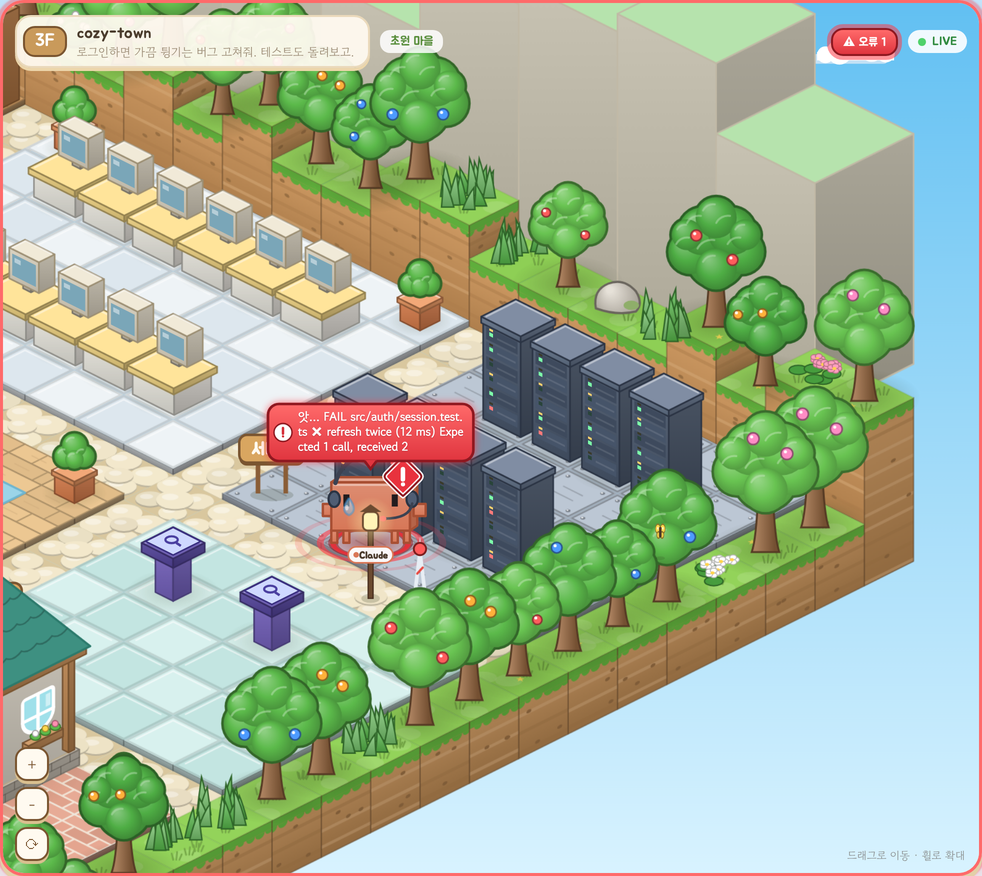
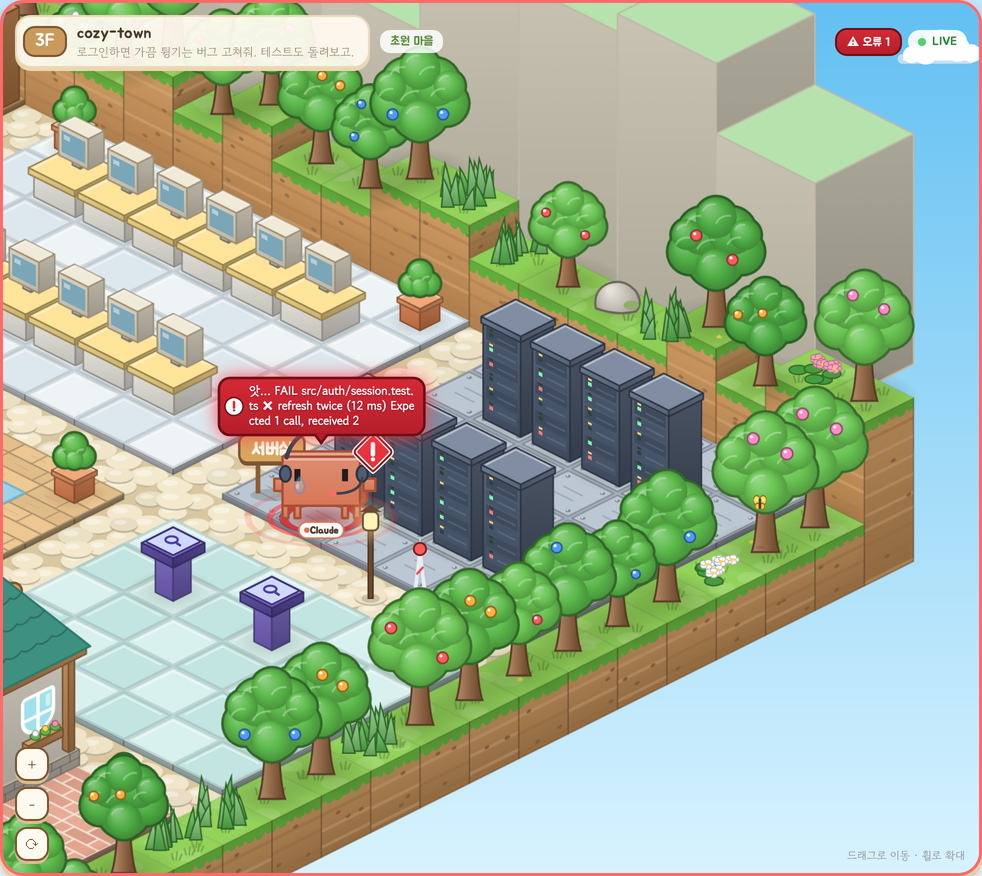
리뷰에서 확인된 오류·확인 필요 표시 문제 수정
- 결과 줄이 빠진 도구(4MB 넘는 줄 등)가 답변이 끝날 때까지 ⏳와 확인 필요
  표시를 계속 다시 띄우던 문제: Claude가 새 API 응답을 시작하면 이전 응답의
  도구는 끝난 것으로 정리한다. 서버가 assistant 이벤트에 응답 ID(mid)를 실어
  보내고, 같은 응답 안에서 결과가 먼저 기록돼도 실행 중인 도구는 지우지 않는다.
  응답 ID가 없는 기록은 '도구 결과 뒤 첫 기록'으로 경계를 정한다.
- 서브에이전트가 실패 직후 끝나도 막 뜬 오류 말풍선은 2.5초 동안 남긴다.
- 화면 가장자리의 말풍선을 캔버스 안으로 당긴다(서버실 오류 말풍선 잘림).
- 빨간 말풍선·표지·상태 칸의 흰 글씨 대비를 4.5:1 이상으로 진하게.
- 말풍선 빛 번짐을 기기 픽셀 배율에 맞춘다(고배율 화면에서 절반으로 줄던 문제).
- 클로드봇의 경고 표지가 걸을 때 눈을 가리지 않도록 위치를 옮긴다.
- README: ⏳와 빨간 말풍선의 순서, 재생 시 남는 로그 색, 4MB 건너뛰기 한계를
  실제 동작대로 고치고 스크린샷을 새 색으로 다시 찍음.

Claude-Session: https://claude.ai/code/session_01VkJvAcnZP5o4Ey8mpCUtMx

diff --git a/public/world.js b/public/world.js
@@ -1106,7 +1106,7 @@ const BUBBLE = {
   report: { bg: '#eafbe5', line: '#6ab865', text: '#2f6b2b' },
   call: { bg: '#ffece4', line: '#e58a6a', text: '#8a3a20' },
   // 눈에 띄어야 하는 말풍선: 진한 바탕, 굵은 글씨, 왼쪽 표지, 빛나는 테두리
-  err: { bg: ['#ff6a6a', '#e0353f'], line: '#8f1820', text: '#ffffff', bold: true, badge: '!', badgeBg: '#ffffff', badgeFg: '#d42a35', glow: '#ff3b47', shake: true },
+  err: { bg: ['#d42a35', '#b51f2a'], line: '#6e0f16', text: '#ffffff', bold: true, badge: '!', badgeBg: '#ffffff', badgeFg: '#d42a35', glow: '#ff3b47', shake: true },
   ask: { bg: ['#ffd84d', '#ffb21a'], line: '#9a5a00', text: '#3d2600', bold: true, badge: '?', badgeBg: '#3d2600', badgeFg: '#ffd84d', glow: '#ffb21a', pulse: true },
   wait: { bg: ['#fff1b8', '#ffd96a'], line: '#b07400', text: '#4a3200', bold: true, badge: '⏳', badgeBg: '#ffffff', badgeFg: '#b07400', glow: '#ffc53d', pulse: true, dash: [5, 3] },
 };
@@ -1124,7 +1124,10 @@ function drawBubble(ctx, x, y, b, placed) {
   const h = Math.max(lines.length * lh + 12, st.badge ? 28 : 0);
   // 오류 말풍선은 처음 0.6초 동안 좌우로 흔들린다
   const shake = st.shake && age < 600 ? Math.sin(age / 22) * 3 * (1 - age / 600) : 0;
-  const bx = Math.round(x - w / 2 + shake);
+  // 화면 가장자리의 캐릭터도 말풍선이 잘리지 않게 안쪽으로 당긴다 (꼬리 끝은 캐릭터를 가리킨다)
+  const ds = ctx.getTransform().a;
+  const vw = ctx.canvas.width / ds;
+  const bx = Math.round(Math.max(4, Math.min(vw - w - 4, x - w / 2)) + shake);
   let by = Math.round(y - h - 12);
   // 다른 말풍선과 겹치면 위로 올린다
   for (let moved = true, n = 0; moved && n < 8; n++) {
@@ -1140,7 +1143,7 @@ function drawBubble(ctx, x, y, b, placed) {
   if (Array.isArray(st.bg)) { fill = ctx.createLinearGradient(0, by, 0, by + h); fill.addColorStop(0, st.bg[0]); fill.addColorStop(1, st.bg[1]); }
   if (st.glow) {
     const k = st.pulse ? 0.5 + 0.5 * Math.sin(now / 260) : 1;
-    ctx.shadowColor = st.glow; ctx.shadowBlur = 8 + 10 * k; ctx.shadowOffsetY = 0;
+    ctx.shadowColor = st.glow; ctx.shadowBlur = (8 + 10 * k) * ds; ctx.shadowOffsetY = 0;   // 그림자 크기는 기기 픽셀 단위
   } else { ctx.shadowColor = 'rgba(80,60,30,.18)'; ctx.shadowBlur = 6; ctx.shadowOffsetY = 2; }
   ctx.fillStyle = fill; ctx.strokeStyle = st.line; ctx.lineWidth = st.glow ? 2.6 : 2;
   if (st.dash) ctx.setLineDash(st.dash);
@@ -1149,13 +1152,13 @@ function drawBubble(ctx, x, y, b, placed) {
     ctx.shadowColor = 'transparent'; ctx.stroke();
     for (const [dx, dy, r] of [[-4, 6, 4], [-9, 13, 2.5]]) { ctx.beginPath(); ctx.arc(x + dx, by + h + dy - 2, r, 0, Math.PI * 2); ctx.fill(); ctx.stroke(); }
   } else {
-    const tx = x + shake;
+    const tx = x + shake, bt = Math.max(bx + 12, Math.min(bx + w - 12, tx));
     ctx.beginPath(); ctx.roundRect(bx, by, w, h, 11); ctx.fill();
     ctx.shadowColor = 'transparent'; ctx.stroke();
     ctx.setLineDash([]);
     ctx.fillStyle = Array.isArray(st.bg) ? st.bg[1] : fill;
-    ctx.beginPath(); ctx.moveTo(tx - 6, by + h - 1); ctx.lineTo(tx, tailY); ctx.lineTo(tx + 6, by + h - 1); ctx.closePath(); ctx.fill();
-    ctx.beginPath(); ctx.moveTo(tx - 6, by + h); ctx.lineTo(tx, tailY); ctx.lineTo(tx + 6, by + h); ctx.stroke();
+    ctx.beginPath(); ctx.moveTo(bt - 6, by + h - 1); ctx.lineTo(tx, tailY); ctx.lineTo(bt + 6, by + h - 1); ctx.closePath(); ctx.fill();
+    ctx.beginPath(); ctx.moveTo(bt - 6, by + h); ctx.lineTo(tx, tailY); ctx.lineTo(bt + 6, by + h); ctx.stroke();
   }
   ctx.setLineDash([]);
   if (st.badge) {
@@ -1169,7 +1172,7 @@ function drawBubble(ctx, x, y, b, placed) {
     ctx.font = `${st.bold ? 'bold ' : ''}12px "Gowun Dodum", "Apple SD Gothic Neo", "Malgun Gothic", sans-serif`;
   }
   ctx.fillStyle = st.text; ctx.textAlign = 'left'; ctx.textBaseline = 'top';
-  if (st.text === '#ffffff') { ctx.shadowColor = 'rgba(120,0,10,.45)'; ctx.shadowBlur = 2; ctx.shadowOffsetY = 1; }
+  if (st.text === '#ffffff') { ctx.shadowColor = 'rgba(120,0,10,.45)'; ctx.shadowBlur = 2 * ds; ctx.shadowOffsetY = ds; }
   const ty = by + (h - lines.length * lh) / 2 + 1;
   lines.forEach((l, i) => ctx.fillText(l, bx + pad, ty + i * lh));
   ctx.restore();

diff --git a/public/app.js b/public/app.js
@@ -281,6 +281,18 @@ class Town {
     const a = this.actorFor(ev);
     if (!a || a.gone) return;
     a.lastAt = now;
+    if (a === this.claude && (ev.k === 'think' || ev.k === 'text' || ev.k === 'tool')) {
+      // Claude는 도구 결과를 모두 받아야 다음 응답을 시작한다. 그런데도 남아 있는 이전 응답의 도구는
+      // 결과 줄이 빠진 것(4MB 넘는 줄 등)이니 끝난 것으로 정리한다. 서브에이전트 호출은 따로 끝을 판단한다.
+      // 응답 ID(mid)가 있으면 그것으로, 없으면 '도구 결과가 온 뒤 처음 나온 기록'으로 새 응답을 가린다
+      for (const [id, p] of this.pending) {
+        if (p.agent !== a || p.ev.name === 'Task' || p.ev.name === 'Agent') continue;
+        if (!(p.ev.mid && ev.mid ? p.ev.mid !== ev.mid : this.claudeStepDone)) continue;
+        this.pending.delete(id);
+        a.unsay(b => b.tool === id);
+      }
+      this.claudeStepDone = false;
+    }
     if (a.kind === 'sub' && (a.state === 'reporting' || a.state === 'leaving') && (ev.k === 'tool' || ev.k === 'think')) {
       // 보고하러 가다가 일을 하나 더 받으면 다시 일하러 돌아간다. 이때는 끝났다는 신호(Task 결과)가 다시 오지 않으므로
       // 기록이 한동안 멈추면 알아서 다시 보고하러 간다 (updateSubs)
@@ -366,6 +378,7 @@ class Town {
     if (!p) return;
     this.pending.delete(ev.id);
     const a = p.agent;
+    if (a === this.claude) this.claudeStepDone = true;
     a.unsay(b => b.until === Infinity && b.tool === ev.id);
     if (a.emote === 'read' || a.emote === 'phone') a.emote = null;
     if (ev.err) {
@@ -417,7 +430,8 @@ class Town {
   finishSub(a, ev) {
     for (const [id, p] of this.pending) if (p.agent === a) this.pending.delete(id);
     if (this.replaying) { this.removeSub(a); return; }
-    a.state = 'reporting'; a.activity = '보고하러 가는 중'; a.emote = null; a.unsay();
+    a.state = 'reporting'; a.activity = '보고하러 가는 중'; a.emote = null;
+    a.unsay(b => !(b.type === 'err' && Date.now() - b.born < ERR_HOLD_MS));   // 막 뜬 오류 말풍선은 남긴다
     const spot = this.spotNearClaude(a);
     this.release(a);
     a.spot = spot; this.reserved.set(spot, a); a.room = 'report';
@@ -458,6 +472,7 @@ class Town {
 
   endTurn(msg, t, quiet = false) {
     this.turnActive = false;
+    this.claudeStepDone = false;
     for (const [id, p] of this.pending) if (p.agent === this.claude) this.pending.delete(id);
     const c = this.claude;
     c.state = 'idle'; c.activity = '대기 중'; c.emote = null; c.mouth = null; c.since = Date.now();

diff --git a/server.js b/server.js
@@ -164,12 +164,14 @@ function compact(rec, src) {
       const m = rec.message || {};
       if (rec.isApiErrorMessage) { out.push({ ...base, k: 'apierr', text: clip(resultText(m.content), 160) }); break; }
       if (!Array.isArray(m.content)) break;
+      // mid: 한 번의 API 응답에서 나온 기록끼리 같은 값. 화면에서 Claude의 단계 경계를 가르는 데 쓴다
+      const ab = m.id ? { ...base, mid: m.id } : base;
       for (const b of m.content) {
         if (!b) continue;
-        if (b.type === 'thinking') out.push({ ...base, k: 'think', text: clip(b.thinking || '', 280) });
-        else if (b.type === 'redacted_thinking') out.push({ ...base, k: 'think', text: '' });
-        else if (b.type === 'text' && b.text && b.text.trim()) out.push({ ...base, k: 'text', text: clip(b.text, 400), stop: m.stop_reason || null });
-        else if (b.type === 'tool_use') out.push({ ...base, k: 'tool', id: b.id, name: b.name, input: compactInput(b.name, b.input) });
+        if (b.type === 'thinking') out.push({ ...ab, k: 'think', text: clip(b.thinking || '', 280) });
+        else if (b.type === 'redacted_thinking') out.push({ ...ab, k: 'think', text: '' });
+        else if (b.type === 'text' && b.text && b.text.trim()) out.push({ ...ab, k: 'text', text: clip(b.text, 400), stop: m.stop_reason || null });
+        else if (b.type === 'tool_use') out.push({ ...ab, k: 'tool', id: b.id, name: b.name, input: compactInput(b.name, b.input) });
       }
       break;
     }

diff --git a/public/style.css b/public/style.css
@@ -125,7 +125,7 @@ body {
   font-family: var(--round); font-size: 12px; border-radius: 12px; padding: 4px 10px; white-space: nowrap;
   border: 2px solid; animation: chipPulse 1.1s ease-in-out infinite;
 }
-#alerts .chip.err { background: linear-gradient(#ff6a6a, #e0353f); color: #fff; border-color: #8f1820; --glow: rgba(255, 59, 71, .55); }
+#alerts .chip.err { background: linear-gradient(#d42a35, #b51f2a); color: #fff; border-color: #6e0f16; --glow: rgba(255, 59, 71, .55); }
 #alerts .chip.warn { background: linear-gradient(#ffd84d, #ffb21a); color: #3d2600; border-color: #9a5a00; --glow: rgba(255, 178, 26, .6); }
 @keyframes chipPulse { 50% { box-shadow: 0 0 0 4px var(--glow); } }
 .live {
@@ -203,7 +203,7 @@ code { background: #f3e7cf; padding: 1px 6px; border-radius: 6px; font-size: .9e
 .pill.s-working { background: #dff3d4; color: #2f6b2b; }
 .pill.s-reporting { background: #dcefff; color: #22609a; }
 .pill.s-leaving, .pill.s-arriving { background: #f3e3ff; color: #6a3d9a; }
-.pill.a-error { background: #e0353f; color: #fff; font-weight: bold; }
+.pill.a-error { background: #c0262f; color: #fff; font-weight: bold; }
 .pill.a-attention { background: #ffc53d; color: #3d2600; font-weight: bold; }
 .person.alert-error { border-color: #ff8a8a; background: #fff3f3; box-shadow: inset 4px 0 0 #e0353f; }
 .person.alert-attention { border-color: #ffd36b; background: #fffaea; box-shadow: inset 4px 0 0 #ffb21a; }

diff --git a/public/critters.js b/public/critters.js
@@ -393,7 +393,7 @@ function duck(ctx, o) {
 }
 
 export const SPECIES = {
-  clawd: { name: '클로드봇', draw: clawd, color: '#d77757', w: 1.45 },
+  clawd: { name: '클로드봇', draw: clawd, color: '#d77757', w: 1.45, mark: 24 },   // mark: 경고 표지 x 위치 (눈을 가리지 않게)
   sprout: { name: '새싹이', draw: sprout, color: '#6cc04e' },
   owl: { name: '부엉이', draw: owl, color: '#8b6fd0' },
   bunny: { name: '토끼', draw: bunny, color: '#5aa9e6' },
@@ -624,7 +624,7 @@ export function drawCharacter(ctx, ch, t) {
   if (ch.emote === 'wave') hand(ctx, 17 * facing, headY + 12, t, sp.color);
   if (ch.eyes === 'happy') sparkles(ctx, 0, headY + 6, t);
   if (ch.sweat) sweat(ctx, -10 * facing, headY + 8, t);
-  if (alert) alertMark(ctx, alert, 15 * facing, top + 2, t);
+  if (alert) alertMark(ctx, alert, (sp.mark || 15) * facing, top + 2, t);
   if (ch.poofT != null) {
     const p = (t - ch.poofT) / 0.7;
     if (p >= 0 && p < 1) poof(ctx, p);

diff --git a/README.md b/README.md
@@ -118,12 +118,12 @@ node server.js --demo
 | 활동 로그 | 실패·오류 줄이 연한 빨간 바탕에 빨간 굵은 글씨 | 질문 줄과 승인 대기 추정 줄이 연한 노란 바탕에 갈색 굵은 글씨 |
 
 - `N`은 Claude와 서브에이전트 중 그 상태인 캐릭터 수다. 오류인 캐릭터와 확인 필요인 캐릭터가 함께 있으면 표지는 둘 다 뜨고, 지도 테두리와 탭 제목은 오류를 따른다.
-- 빨간 `!` 말풍선은 뜬 뒤 2.5초 동안 다른 말풍선에 가리지 않는다. 그사이 생각이나 다음 도구 말풍선이 오면 마지막 하나만 2.5초가 지난 뒤에 뜨고, 그 전에 끝난 도구의 말풍선은 뜨지 않는다. 질문·승인 대기·다른 오류 말풍선은 기다리지 않고 바로 바뀐다.
+- 빨간 `!` 말풍선은 뜬 뒤 2.5초 동안 다른 말풍선에 가리지 않는다. 그사이 생각이나 다음 도구 말풍선이 오면 마지막 하나만 2.5초가 지난 뒤에 뜨고, 그 전에 끝난 도구의 말풍선은 뜨지 않는다. 새 질문이나 다른 오류 말풍선은 기다리지 않고 바로 바뀐다. 승인 대기 추정(`⏳`) 말풍선은 빨간 말풍선이 사라진 뒤에 뜬다.
 - 2.5초가 지나 빨간 말풍선이 다음 말풍선으로 바뀌어도, 고리·표지·식은땀 같은 나머지 오류 표시는 오류 상태가 끝날 때까지 남는다.
 - `?`·`⏳` 말풍선은 함께 호출된 다른 도구의 말풍선에 덮이지 않는다. 그사이 오류 말풍선이 뜨면 그것이 사라진 뒤에 다시 뜬다.
 - 활동 로그를 뺀 나머지 표시는 그 상태가 끝나면 사라진다. 활동 로그의 색은 남는다.
 - 다른 탭을 보고 있어도 탭 제목은 1초마다 갱신된다. 브라우저가 백그라운드 탭의 타이머를 늦추면 그만큼 늦게 바뀐다. 그동안 캐릭터는 걷지 않고 바로 목적지에 가 있다.
-- 처음 열 때 지난 기록을 재생하며 생긴 오류 표시는 남기지 않는다. 세션이 아직 일하는 중이면 답을 기다리는 질문은 바로 다시 띄우고, 승인 대기 추정은 연 시각부터 7초를 다시 잰다.
+- 처음 열 때 지난 기록을 재생하며 생긴 오류 표시는 활동 로그의 빨간 줄만 남기고 나머지는 남기지 않는다. 세션이 아직 일하는 중이면 답을 기다리는 질문은 바로 다시 띄우고, 승인 대기 추정은 연 시각부터 7초를 다시 잰다.
 
 오른쪽 패널에는 프로젝트 경로와 세션 ID, 사무실에 있는 캐릭터의 상태와 도구 사용 횟수, 최신 항목이 위에 오는 활동 로그, 방과 캐릭터 안내가 나온다. 도구 사용 횟수는 처음 열 때 읽은 범위부터 센다.
 
@@ -170,7 +170,7 @@ node server.js --demo
 - **서브에이전트 기록은 처음 열 때 최근 30분 안에 쓰인 것만 끝부분 128KB를 읽는다.** 30분 넘게 아무것도 쓰지 않은 서브에이전트는 처음 열 때 자기 기록을 읽지 않아서 무엇을 하는지 알 수 없다. 그 서브에이전트를 부른 호출이 읽은 범위 안에 있고 세션이 아직 일하는 중이면 유형별 기본 방에 "일하는 중"으로 서 있고, 아니면 보이지 않다가 다음 기록을 남길 때 엘리베이터를 거치지 않고 바로 나타난다.
 - **긴 명령을 기다리는 동안에는 기록이 멈춘다.** Claude Code는 명령이 도는 동안 기록 파일에 아무것도 쓰지 않는다. 그래서 다른 층의 불은 2분이 지나면 꺼진다. 지금 보고 있는 세션은 끝나지 않은 도구가 있으면 마지막 기록 뒤 30분까지 일하는 중으로 본다. 반대로 Claude Code를 명령 도중에 강제로 끄면, 그 뒤 30분 동안은 일하는 중으로 남아 보일 수 있다.
 - **백그라운드 서브에이전트는 끝을 추정한다.** `run_in_background`로 부르거나 도중에 백그라운드로 돌린 서브에이전트는, Claude Code가 호출 결과를 일이 끝날 때가 아니라 시작할 때 남긴다. 진짜 완료 소식은 나중에 따로 오는데 이 앱은 그것을 읽지 않는다. 그래서 "다시 일하러 돌아간" 서브에이전트와 같은 규칙(끝나지 않은 도구 없이 30초 동안 새 기록이 없으면)으로 끝을 추정하고, 실제 결과 대신 "보고: 다 했어요!"라고 보고한 뒤 퇴근한다.
-- **4MB가 넘는 한 줄짜리 기록은 건너뛴다.** 큰 이미지나 PDF를 읽은 결과가 이렇게 빠지면 그 도구가 끝나지 않은 것처럼 보이고, 승인을 기다린다는 말풍선이 잘못 뜰 수 있다.
+- **4MB가 넘는 한 줄짜리 기록은 건너뛴다.** 큰 이미지나 PDF를 읽은 결과가 이렇게 빠지면 그 도구가 끝나지 않은 것처럼 보인다. 그 도구가 승인 대기 추정 대상이면 7초 뒤부터 `⏳` 말풍선과 확인 필요 표시(`❓ 확인 필요` 표지, 노란 지도 테두리, 탭 제목의 `❓`)가 잘못 뜬다. Claude가 다음 응답(생각·답변·다른 도구)을 시작하면 결과가 빠진 도구도 끝난 것으로 보고 이 표시를 거둔다. 서브에이전트가 쓴 도구와 서브에이전트 호출은 이렇게 정리하지 않는다.
 - **오래된 세션 기록을 지우면 층 번호와 풍경이 바뀔 수 있다.** 층 번호를 남아 있는 기록 가운데 가장 오래된 것 기준으로 매기기 때문이다.
 
 ## 파일 구조
